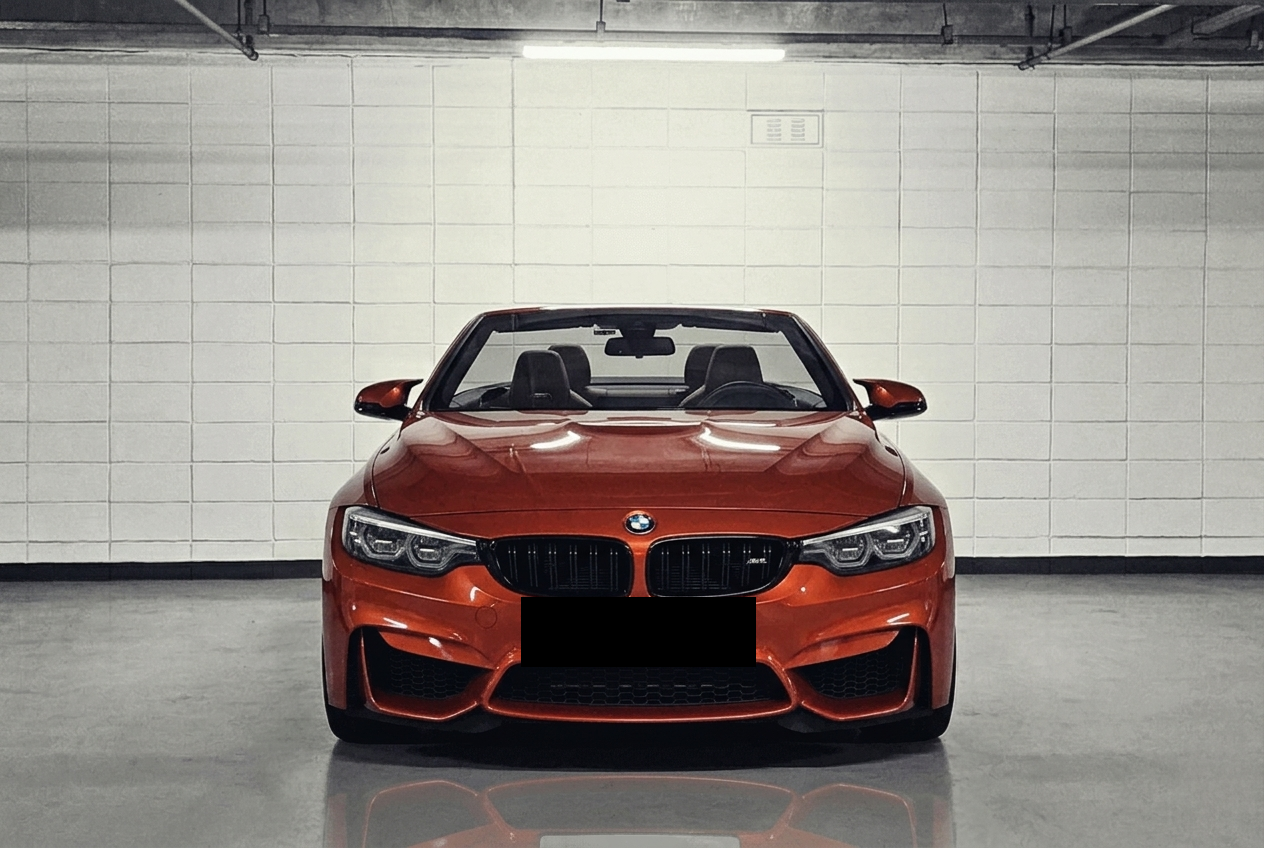
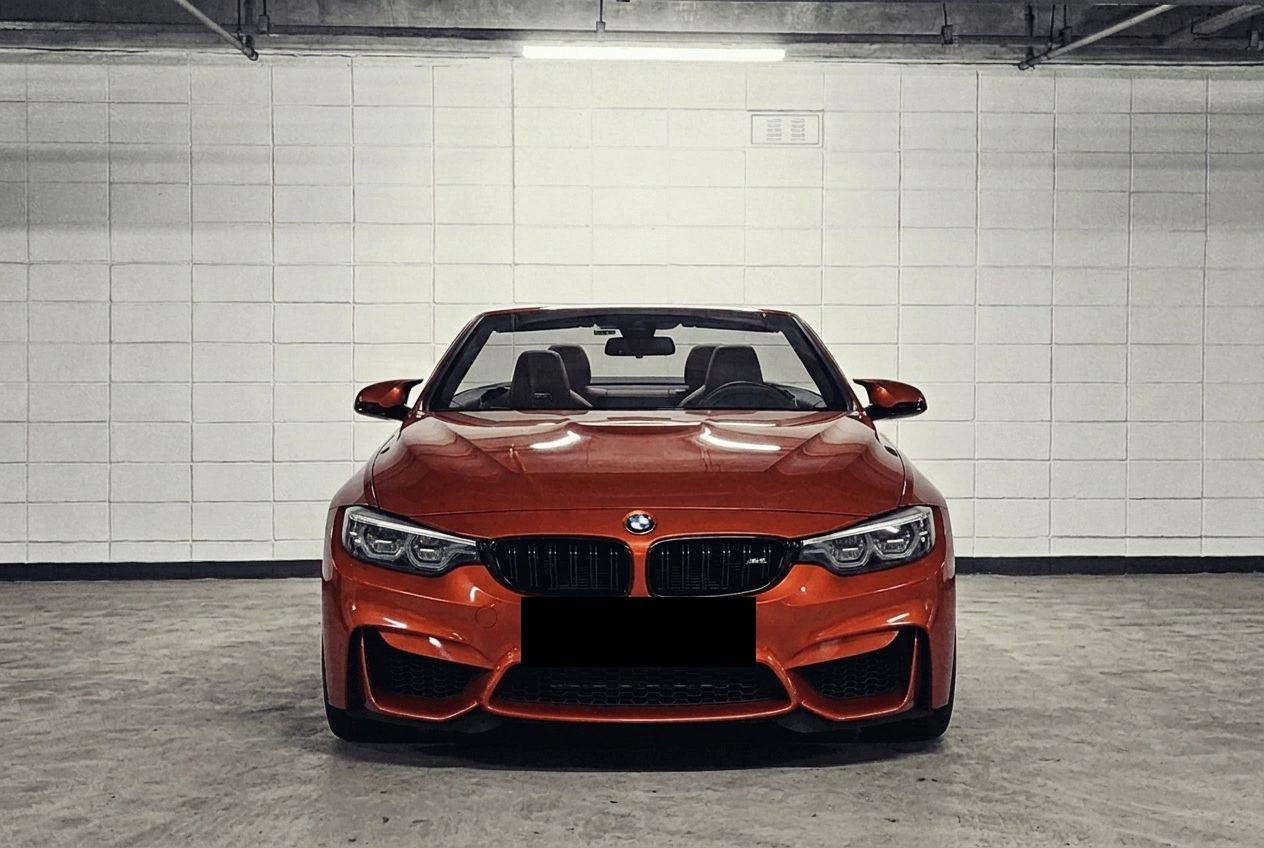
BMW M3 추가(회색/흰색) + 바닥 반사 제거(M3 2종, M4컨버터블)
- BMW 섹션 420i 컨버터블 밑에 M3 행 추가 (회색/흰색 2대)
  G80 M3를 쇼룸 베이스(520 신형)에 car-swap 합성, 번호판 가림
- 파란색 요청 -> 흰색으로 변경
- 바닥 거울반사 제거: M3 회색/흰색, M4컨버터블 컴패티션 (매트 바닥)
- 미사용 BMW M3 파랑.png 삭제

Changed region(s): [[0.0, 0.6745, 1.0, 1.0]]

diff --git a/index.html b/index.html
@@ -524,6 +524,14 @@
                 </div></div>
             </div>
 
+            <div class="model-row">
+                <h4 class="model-label">M3</h4>
+                <div class="swiper modelSwiper"><div class="swiper-wrapper">
+                    <div class="swiper-slide"><div class="vehicle-card"><div class="vehicle-image"><img src="img/cars/BMW M3 회색.png" alt="BMW M3 회색" loading="lazy"></div><div class="vehicle-info"><h3 class="vehicle-name">BMW M3</h3><p class="vehicle-description">회색</p></div></div></div>
+                    <div class="swiper-slide"><div class="vehicle-card"><div class="vehicle-image"><img src="img/cars/BMW M3 흰색.png" alt="BMW M3 흰색" loading="lazy"></div><div class="vehicle-info"><h3 class="vehicle-name">BMW M3</h3><p class="vehicle-description">흰색</p></div></div></div>
+                </div></div>
+            </div>
+
             <div class="lineup-row">
 
             <div class="model-row">